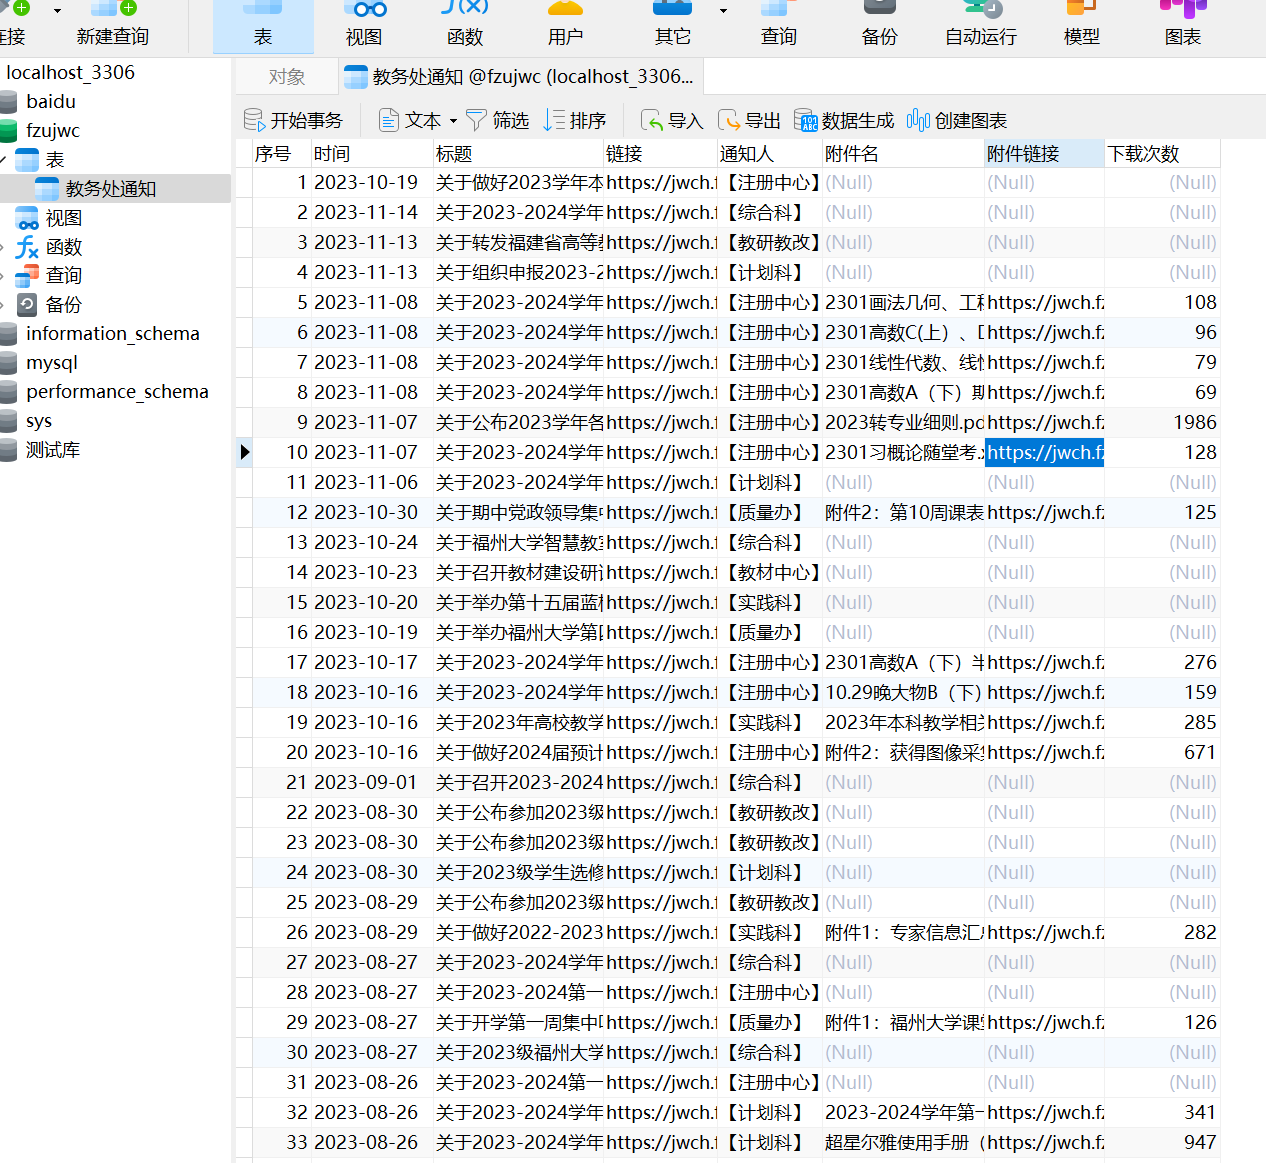
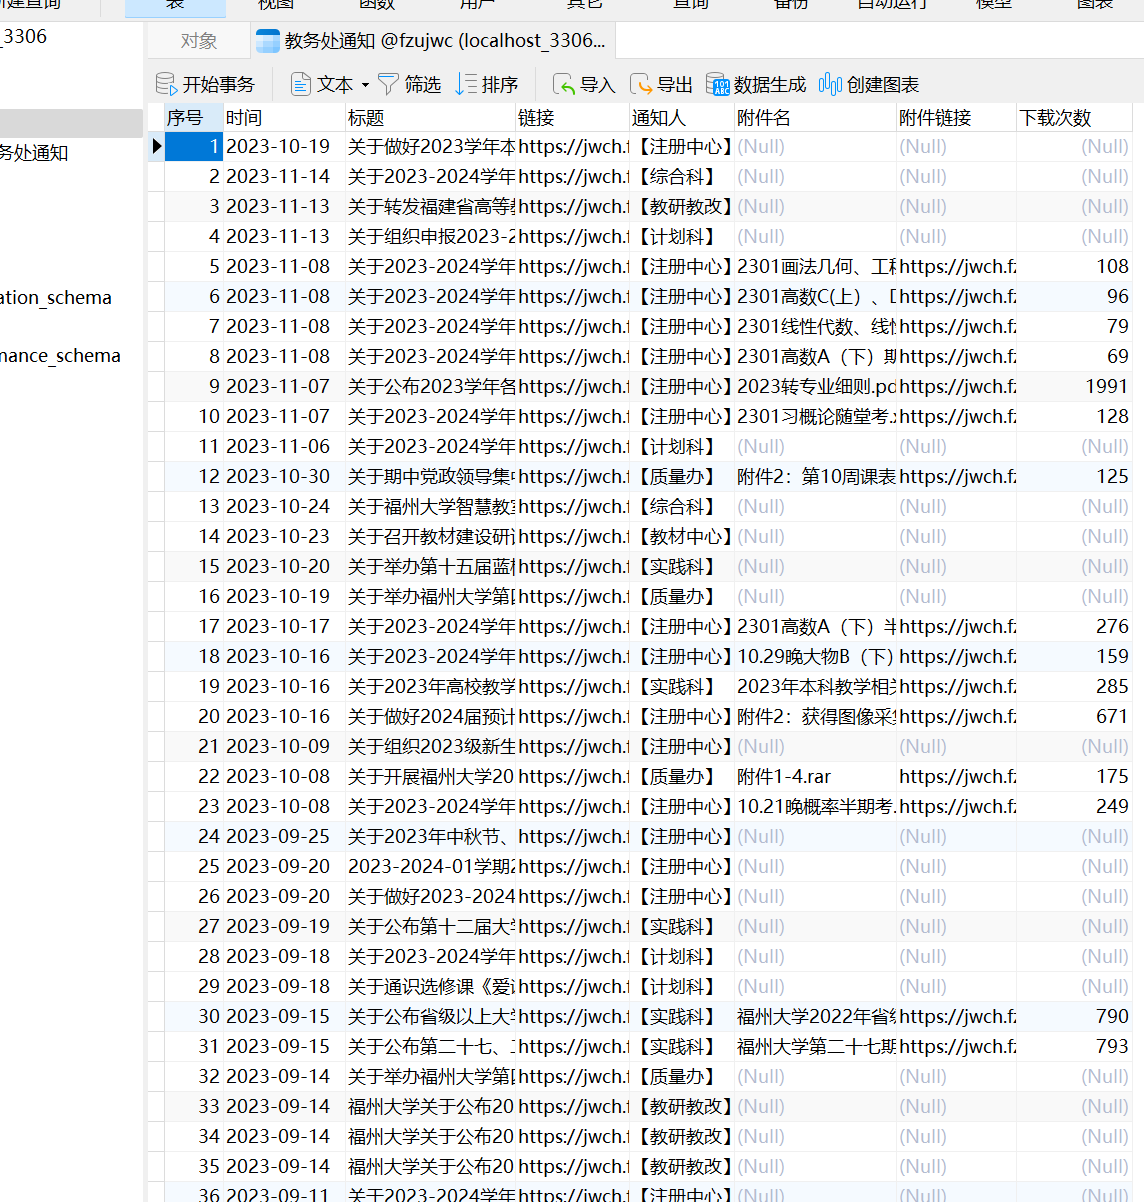
Add files via upload

Changed region(s): [[0.0, 0.0, 1.0, 1.0], [0.9178, 0.0, 0.979, 0.0619], [0.826, 0.0, 0.8872, 0.031]]

diff --git a/第二轮考核/福大教务处.py b/第二轮考核/福大教务处.py
@@ -7,7 +7,7 @@ headers_UA = {
     'User-Agent':'Mozilla/5.0 (Windows NT 10.0; Win64; x64) AppleWebKit/537.36 (KHTML, like Gecko) Chrome/118.0.0.0 Safari/537.36 Edg/118.0.2088.69'
 }
 num=0
-page = 183
+page = 184
 l=[0]
 
 def scrape_page_get(url,params={},headers= {}):
@@ -56,7 +56,7 @@ def parse(html,atr,xpath1,xpath2=''):
         
         try:#给有序列表中的字典增加键值对
 
-            l[20*(page-183)+number][atr]=result
+            l[20*(184-page)+number][atr]=result
         
         except:#新建字典，序号加一，且创建键值对
             num+=1
@@ -85,7 +85,7 @@ for i in range(1,5):
     url_page=f'{url2}{page}.htm'
     
     r = scrape_page_get(url_page,headers=headers_UA)
-    page+=1
+    page-=1
     parse(r,'时间',xpath['time_xpath'],xpath['time_xpath2'])
     parse(r,'标题',xpath['header'])
     parse(r,'链接',xpath['url'])
@@ -121,11 +121,35 @@ def parse2(html,atr,xpath):#爬取附件相关
 for i in range(1,101):
     r = scrape_page_get(l[i]['链接'],headers=headers_UA)
     parse2(r,'附件名',xpath['append_name'])
-    parse2(r,'附件下载次数',xpath['append_time'])
+    #parse2(r,'附件下载次数',xpath['append_time'])
     parse2(r,'附件链接',xpath['append_url'])
-    time.sleep(0.03)
+    time.sleep(0.02)
 
-#print(l)
+
+from selenium import webdriver
+import time
+options = webdriver.EdgeOptions()
+options.add_argument('--headless') 
+driver = webdriver.Edge(options=options)
+
+for i in range(1,101):
+    if l[i].get('附件名'):
+        driver.get(l[i]['链接'])
+        time.sleep(0.8)
+        entries = driver.execute_script("return window.performance.getEntries();")
+        for entry in entries:
+            if entry['entryType'] == 'resource' and entry['initiatorType'] == 'xmlhttprequest':
+                #print('Non-HTML Request URL:', entry['name'])
+                xhrurl = entry['name']
+                rp = requests.get(xhrurl,headers=headers_UA)
+                jsrp = rp.json()
+                result = jsrp["wbshowtimes"]
+                l[i]['下载次数']=result
+                break
+driver.quit()
+
+
+print(l)
 
 db = pymysql.connect(host='localhost',user = 'root',password='996931',port=3306,db='fzujwc')
 cursor = db.cursor()
@@ -134,9 +158,9 @@ for i in l[1:]:
 
     if i.get('附件名'):
         sql = """INSERT INTO 教务处通知
-            (序号,时间,标题,链接,通知人,附件名,附件链接)
+            (序号,时间,标题,链接,通知人,附件名,附件链接,下载次数)
             VALUES
-            (%d, '%s', '%s', '%s', '%s', '%s', '%s')"""%(i['序号'],i['时间'],i['标题'],i['链接'],i['通知人'],i['附件名'],i['附件链接'])
+            (%d, '%s', '%s', '%s', '%s', '%s', '%s', '%s')"""%(i['序号'],i['时间'],i['标题'],i['链接'],i['通知人'],i['附件名'],i['附件链接'],i['下载次数'])
     else:
         sql = """INSERT INTO 教务处通知
             (序号,时间,标题,链接,通知人)
